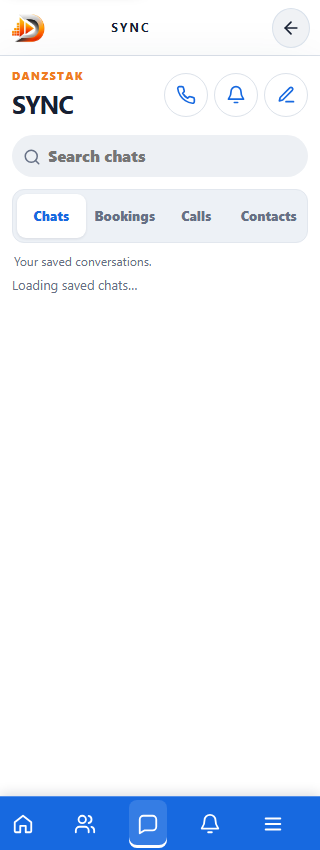
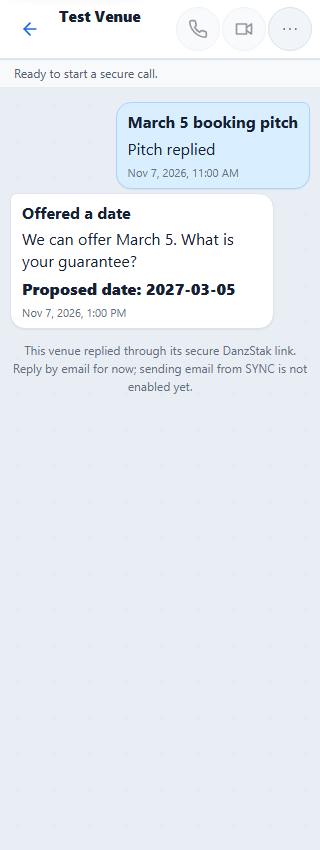
Record booking reply staging verification

Changed region(s): [[0.0, 0.0, 1.0, 0.4588], [0.0, 0.9176, 1.0, 1.0], [0.0938, 0.1835, 0.125, 0.2141]]

diff --git a/docs/DANZSTAK-DEVELOPMENT-REPORT.md b/docs/DANZSTAK-DEVELOPMENT-REPORT.md
@@ -2,7 +2,7 @@
 
 ## Secure venue replies in SYNC — 2026-11-07
 
-Status: **IMPLEMENTED AND LOCALLY VERIFIED; STAGING AND PRODUCTION NOT YET VERIFIED**.
+Status: **IMPLEMENTED AND VERIFIED IN THE ISOLATED REVIEW PWA; PRODUCTION NOT YET VERIFIED**.
 
 - Each artist-approved booking email now includes a private fragment-only link where the venue can reply, mark interest, pass, or offer a date without creating a DanzStak account. The browser removes the secret from visible history before submission and sends it only in an accountless POST body.
 - The API resolves the hash-stored preflight token to the exact artist, outreach and venue, rejects expired or malformed links and bounded-input violations, conditionally stores the reply under the artist's DynamoDB partition, and updates the original outreach to `replied` in the same transaction. A venue-supplied client message ID makes retries idempotent.
@@ -10,6 +10,7 @@ Status: **IMPLEMENTED AND LOCALLY VERIFIED; STAGING AND PRODUCTION NOT YET VERIF
 - New guarded route: `POST /tour-manager/reply`. New shell page/assets: `booking-reply.html`, `assets/booking-reply.css`, `assets/booking-reply.js`, and `assets/booking-sync.js`. Prepared PWA cache: `danzstak-shell-v700`.
 - Functional/security evidence: `test-booking-replies.cjs` covers valid acceptance, duplicate retry, forged token, input bounds, owner isolation, accountless requests, route deployment and PWA inclusion. The complete `test-regressions.ps1` suite passes with exit code 0, including infrastructure, static links and site smoke tests.
 - Visual evidence: `browser-checks/booking-reply.cjs` and `browser-checks/booking-sync.cjs` pass at 320, 360, 390, 414, 430 and 1366px. The captures in `docs/screenshots/booking-reply/` and `docs/screenshots/booking-sync/` were inspected: no overflow or clipping, primary controls are at least 44px, and booking messages remain readable on phone and desktop.
+- Review/staging evidence: all three required GitHub checks passed for implementation head `95ca21ff8e8b6aebe437a14add00ca10b67f23df`. AWS Amplify DEVELOPMENT branch `codex/booking-reply-bridge`, job `1`, succeeded in `us-west-1`. No-cache probes confirm the reply page, SYNC booking asset and `danzstak-shell-v700` at `https://codex-booking-reply-bridge.d31oovi2mos5iz.amplifyapp.com`; both six-width browser matrices pass directly against that hosted build.
 - Honest boundary: this slice provides secure accountless web replies and private SYNC display. It does **not** provide inbound email ingestion, automatic date confirmation, or sending an email back to a venue from SYNC. Those remain separate work requiring a verified inbound-email transport and additional artist-review controls.
 
 ## Booking-email provider events and automatic suppression — 2026-11-07
